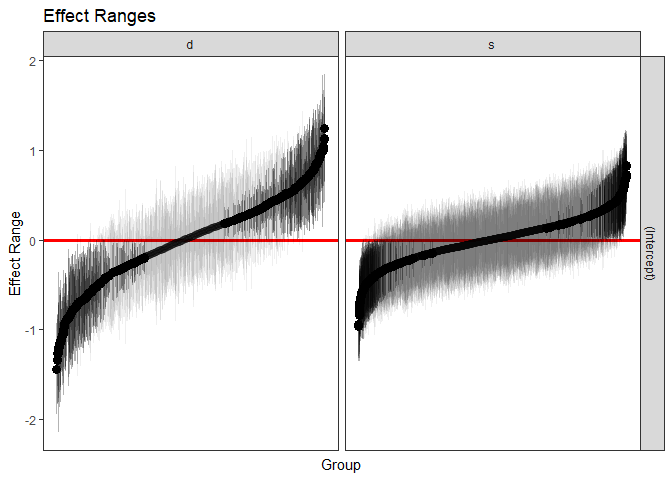
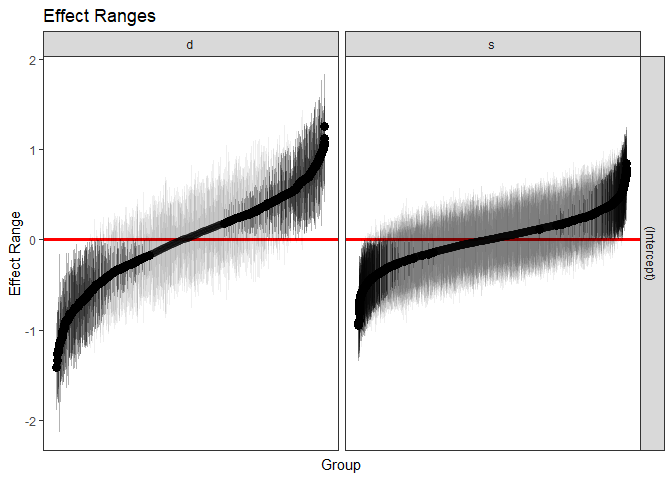
prepping for CRAN release

diff --git a/README.md b/README.md
@@ -164,16 +164,16 @@ standard objects produced by `lm` and `glm`:
 predictInterval(m1, newdata = InstEval[1:10, ], n.sims = 500, level = 0.9, 
                 stat = 'median')
 #>         fit      upr       lwr
-#> 1  3.062403 4.875299 1.0976325
-#> 2  3.122269 5.220372 1.1362041
-#> 3  3.399609 5.277484 1.3125614
-#> 4  3.089576 4.981890 0.9704067
-#> 5  3.289961 5.431288 1.2092377
-#> 6  3.223154 5.146182 1.1536405
-#> 7  4.251286 6.242942 2.1694248
-#> 8  3.857138 5.595392 2.0689368
-#> 9  3.814014 5.633757 1.6666908
-#> 10 3.313968 5.240684 1.4102597
+#> 1  3.015857 5.088929 1.1835562
+#> 2  3.277143 5.220196 1.1038519
+#> 3  3.404557 5.350846 1.3090942
+#> 4  3.108511 5.314549 0.9256501
+#> 5  3.260811 5.420831 1.2343590
+#> 6  3.150673 5.267239 1.3318446
+#> 7  4.085517 6.192887 2.1149662
+#> 8  3.776922 5.715385 1.7600005
+#> 9  3.799624 6.045041 1.7959515
+#> 10 3.195235 5.180454 1.2971043
 ```
 
 Note that `predictInterval` is slower because it is computing
@@ -195,46 +195,46 @@ interval.
 predictInterval(m1, newdata = InstEval[1:10, ], n.sims = 200, level = 0.9, 
                 stat = 'median', which = "all")
 #>      effect         fit      upr       lwr obs
-#> 1  combined  3.10588146 5.074320  1.115744   1
-#> 2  combined  3.12590159 5.229144  1.234737   2
-#> 3  combined  3.50221080 5.558903  1.725983   3
-#> 4  combined  3.18401922 5.180478  1.202701   4
-#> 5  combined  3.43516669 5.479951  1.687226   5
-#> 6  combined  3.28702761 5.076120  1.696698   6
-#> 7  combined  4.11620436 6.242719  2.218440   7
-#> 8  combined  3.83946756 5.806928  1.734871   8
-#> 9  combined  3.65520277 5.733005  1.734383   9
-#> 10 combined  3.38291712 5.126766  1.305704  10
-#> 11        s  0.39530734 2.314564 -1.580480   1
-#> 12        s  0.05768790 2.145727 -1.734261   2
-#> 13        s  0.25144648 2.161022 -1.835595   3
-#> 14        s  0.11230706 2.048973 -1.717377   4
-#> 15        s  0.15938325 2.245457 -1.688314   5
-#> 16        s -0.03997122 1.713787 -1.946526   6
-#> 17        s  0.30717886 2.146772 -1.879950   7
-#> 18        s  0.35245963 2.126182 -1.567672   8
-#> 19        s  0.28048955 1.870139 -1.916605   9
-#> 20        s  0.15098774 2.075590 -1.676578  10
-#> 21        d -0.04506101 1.626325 -2.167031   1
-#> 22        d -0.35762750 1.367847 -2.086245   2
-#> 23        d -0.01284133 1.983798 -1.611674   3
-#> 24        d -0.09276199 1.753796 -1.927223   4
-#> 25        d  0.27178929 1.855894 -1.768267   5
-#> 26        d  0.20473020 2.107927 -1.804207   6
-#> 27        d  0.63579228 2.787336 -1.110867   7
-#> 28        d  0.25870148 2.161567 -1.591056   8
-#> 29        d  0.09847088 2.445938 -1.720187   9
-#> 30        d -0.26284078 1.821286 -2.264619  10
-#> 31    fixed  3.47902439 5.125702  1.440427   1
-#> 32    fixed  3.18552734 5.002860  1.395992   2
-#> 33    fixed  3.18264885 5.135351  1.327085   3
-#> 34    fixed  3.24551389 5.327702  1.376886   4
-#> 35    fixed  3.40134173 5.468416  1.283102   5
-#> 36    fixed  3.27690088 5.102528  1.176106   6
-#> 37    fixed  3.26605454 5.071742  1.369039   7
-#> 38    fixed  3.36780245 4.854022  1.495831   8
-#> 39    fixed  3.44550641 5.317501  1.397862   9
-#> 40    fixed  3.50671455 5.241567  1.684289  10
+#> 1  combined  3.18738014 4.966371  1.126030   1
+#> 2  combined  2.97373166 5.126738  1.274230   2
+#> 3  combined  3.27899702 5.362678  1.472948   3
+#> 4  combined  3.23788384 5.020504  1.050771   4
+#> 5  combined  3.37136338 5.350912  1.242096   5
+#> 6  combined  3.15899583 5.217095  1.331035   6
+#> 7  combined  4.14067417 6.187147  2.068142   7
+#> 8  combined  4.02432057 6.067216  1.654789   8
+#> 9  combined  3.77403216 5.554346  1.964592   9
+#> 10 combined  3.42735845 5.296553  1.435939  10
+#> 11        s  0.07251608 1.918014 -2.089567   1
+#> 12        s  0.08247714 1.953635 -1.810187   2
+#> 13        s  0.09157851 2.184732 -1.943005   3
+#> 14        s  0.13788161 1.811599 -1.622534   4
+#> 15        s  0.07322001 1.741112 -2.165038   5
+#> 16        s -0.11882131 1.735864 -2.302783   6
+#> 17        s  0.19512517 2.245456 -1.630585   7
+#> 18        s  0.17986892 2.064228 -1.743939   8
+#> 19        s  0.42961647 2.089356 -1.536597   9
+#> 20        s  0.41084777 2.124038 -1.681811  10
+#> 21        d -0.16574871 1.846935 -2.142487   1
+#> 22        d -0.05194920 1.839777 -1.897692   2
+#> 23        d  0.09294099 2.062341 -1.811622   3
+#> 24        d -0.27500494 1.470227 -2.026380   4
+#> 25        d  0.10836089 1.758614 -1.613323   5
+#> 26        d -0.10553477 2.057018 -1.928175   6
+#> 27        d  0.58243006 2.712166 -1.427938   7
+#> 28        d  0.24593391 2.142436 -1.421031   8
+#> 29        d  0.01724017 2.472836 -1.853576   9
+#> 30        d -0.19182347 1.693597 -2.412778  10
+#> 31    fixed  3.16933865 5.219839  1.287274   1
+#> 32    fixed  3.16287615 5.140116  1.524180   2
+#> 33    fixed  3.29291541 4.902726  1.382934   3
+#> 34    fixed  3.01686447 5.285364  1.248745   4
+#> 35    fixed  3.30761049 5.106185  1.420678   5
+#> 36    fixed  3.32362576 4.872431  1.557399   6
+#> 37    fixed  3.27480918 5.680335  1.374587   7
+#> 38    fixed  3.47316648 5.063170  1.595717   8
+#> 39    fixed  3.33332336 5.208318  1.435965   9
+#> 40    fixed  3.27800249 5.158261  1.463540  10
 ```
 
 This can lead to some useful plotting:
@@ -284,12 +284,12 @@ fixed and random effect parameters.
 feSims <- FEsim(m1, n.sims = 100)
 head(feSims)
 #>          term        mean      median         sd
-#> 1 (Intercept)  3.22260943  3.22167083 0.01975290
-#> 2    service1 -0.07125476 -0.07202959 0.01445489
-#> 3   lectage.L -0.18509515 -0.18621076 0.01685905
-#> 4   lectage.Q  0.02385849  0.02279335 0.01234334
-#> 5   lectage.C -0.02464019 -0.02453241 0.01404294
-#> 6   lectage^4 -0.02184410 -0.02122708 0.01393632
+#> 1 (Intercept)  3.22450825  3.22391563 0.01814137
+#> 2    service1 -0.07020093 -0.07020791 0.01288904
+#> 3   lectage.L -0.18513512 -0.18608254 0.01616639
+#> 4   lectage.Q  0.02471446  0.02512454 0.01087328
+#> 5   lectage.C -0.02594511 -0.02425488 0.01300243
+#> 6   lectage^4 -0.01880190 -0.01887871 0.01410205
 ```
 
 And we can also plot this:
@@ -306,12 +306,12 @@ We can also quickly make caterpillar plots for the random-effect terms:
 reSims <- REsim(m1, n.sims = 100)
 head(reSims)
 #>   groupFctr groupID        term        mean      median        sd
-#> 1         s       1 (Intercept)  0.20231155  0.17902672 0.3297829
-#> 2         s       2 (Intercept) -0.05894260 -0.04706429 0.3219184
-#> 3         s       3 (Intercept)  0.34258614  0.32157928 0.3008581
-#> 4         s       4 (Intercept)  0.24350220  0.25955173 0.3051320
-#> 5         s       5 (Intercept)  0.03924003  0.03009568 0.3188415
-#> 6         s       6 (Intercept)  0.08439409  0.08361151 0.2249616
+#> 1         s       1 (Intercept)  0.21962903  0.26429668 0.3113619
+#> 2         s       2 (Intercept) -0.04134078 -0.03064871 0.2922675
+#> 3         s       3 (Intercept)  0.31819925  0.32744181 0.3530303
+#> 4         s       4 (Intercept)  0.21088441  0.22023284 0.3176695
+#> 5         s       5 (Intercept)  0.02441805 -0.02929245 0.3350150
+#> 6         s       6 (Intercept)  0.10534748  0.12763830 0.2284094
 ```
 
 ``` r
@@ -378,11 +378,11 @@ impSim <- REimpact(m1, InstEval[7, ], groupFctr = "d", breaks = 5,
 #> Warning: executing %dopar% sequentially: no parallel backend registered
 impSim
 #>   case bin   AvgFit     AvgFitSE nobs
-#> 1    1   1 2.790659 2.997445e-04  193
-#> 2    1   2 3.266613 6.586502e-05  240
-#> 3    1   3 3.560015 5.408651e-05  254
-#> 4    1   4 3.845779 5.684319e-05  265
-#> 5    1   5 4.230333 1.929049e-04  176
+#> 1    1   1 2.797430 2.900363e-04  193
+#> 2    1   2 3.263396 6.627139e-05  240
+#> 3    1   3 3.551957 5.770126e-05  254
+#> 4    1   4 3.841343 6.469439e-05  265
+#> 5    1   5 4.236372 2.100511e-04  176
 ```
 
 The result of `REimpact` shows the change in the `yhat` as the case we

diff --git a/cran-comments.md b/cran-comments.md
@@ -1,6 +1,8 @@
 ## Test environments
-* local Windows 10 install, R 3.5.1
-* win-builder (devel and release)
+* local Windows 10 install, R 3.5.3
+* r-hub (R-release macOS 10.11)
+* r-hub (R-release Windows Server 2008 R2 SP1)
+* 
 
 ## R CMD check results
 
